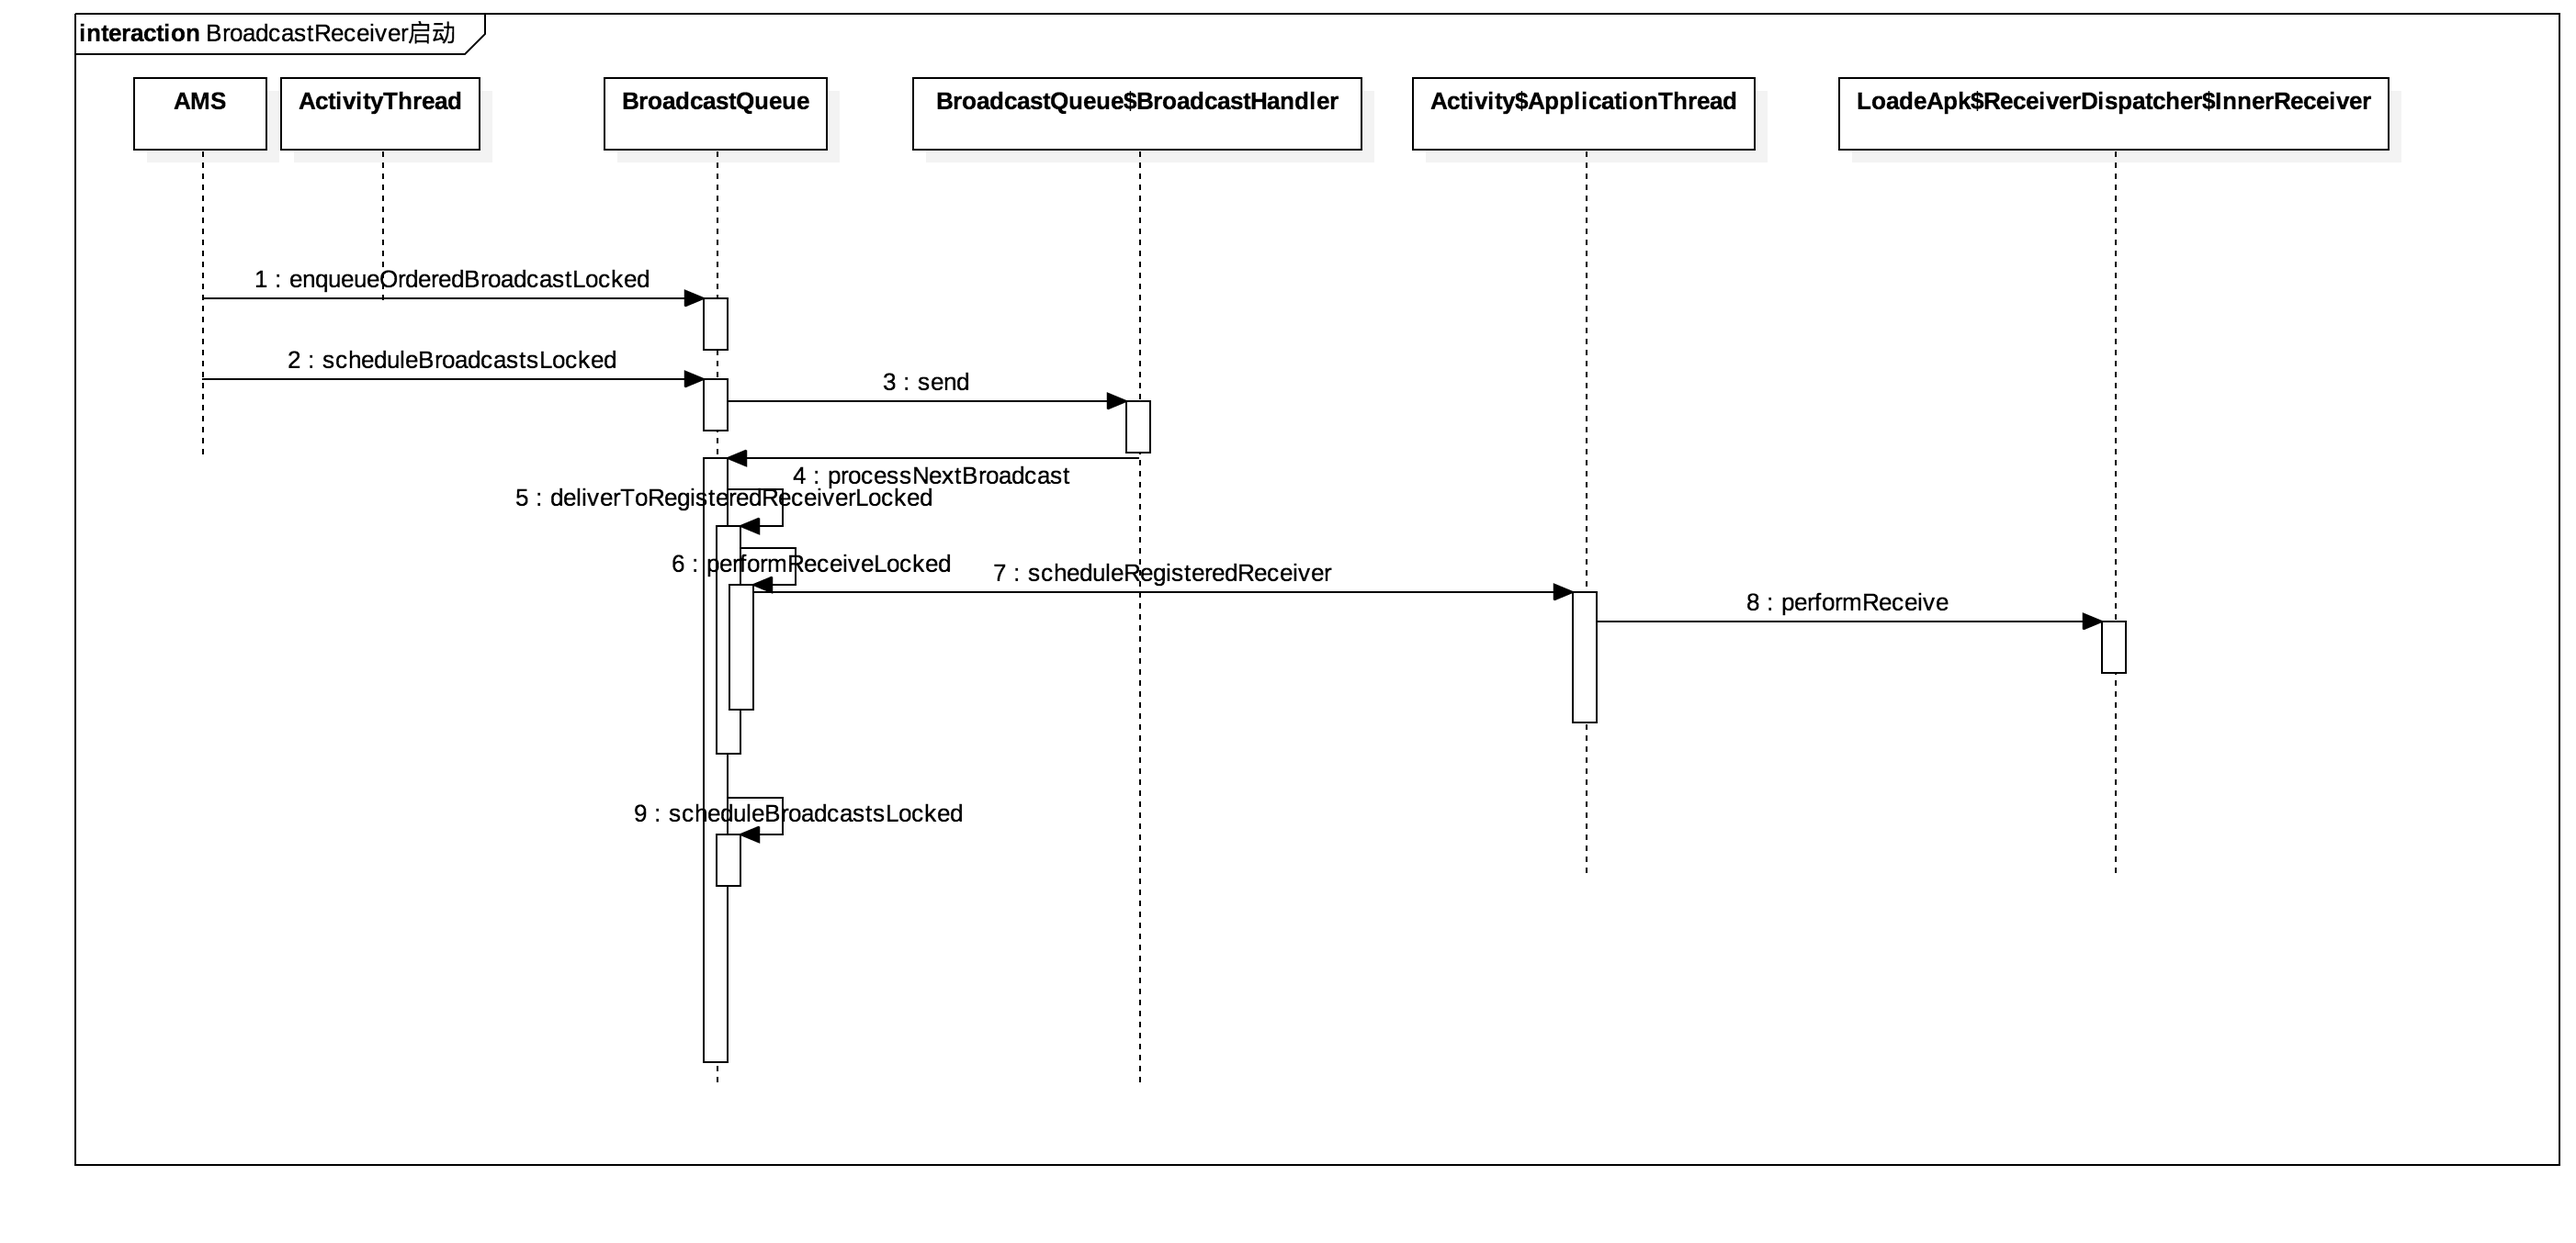
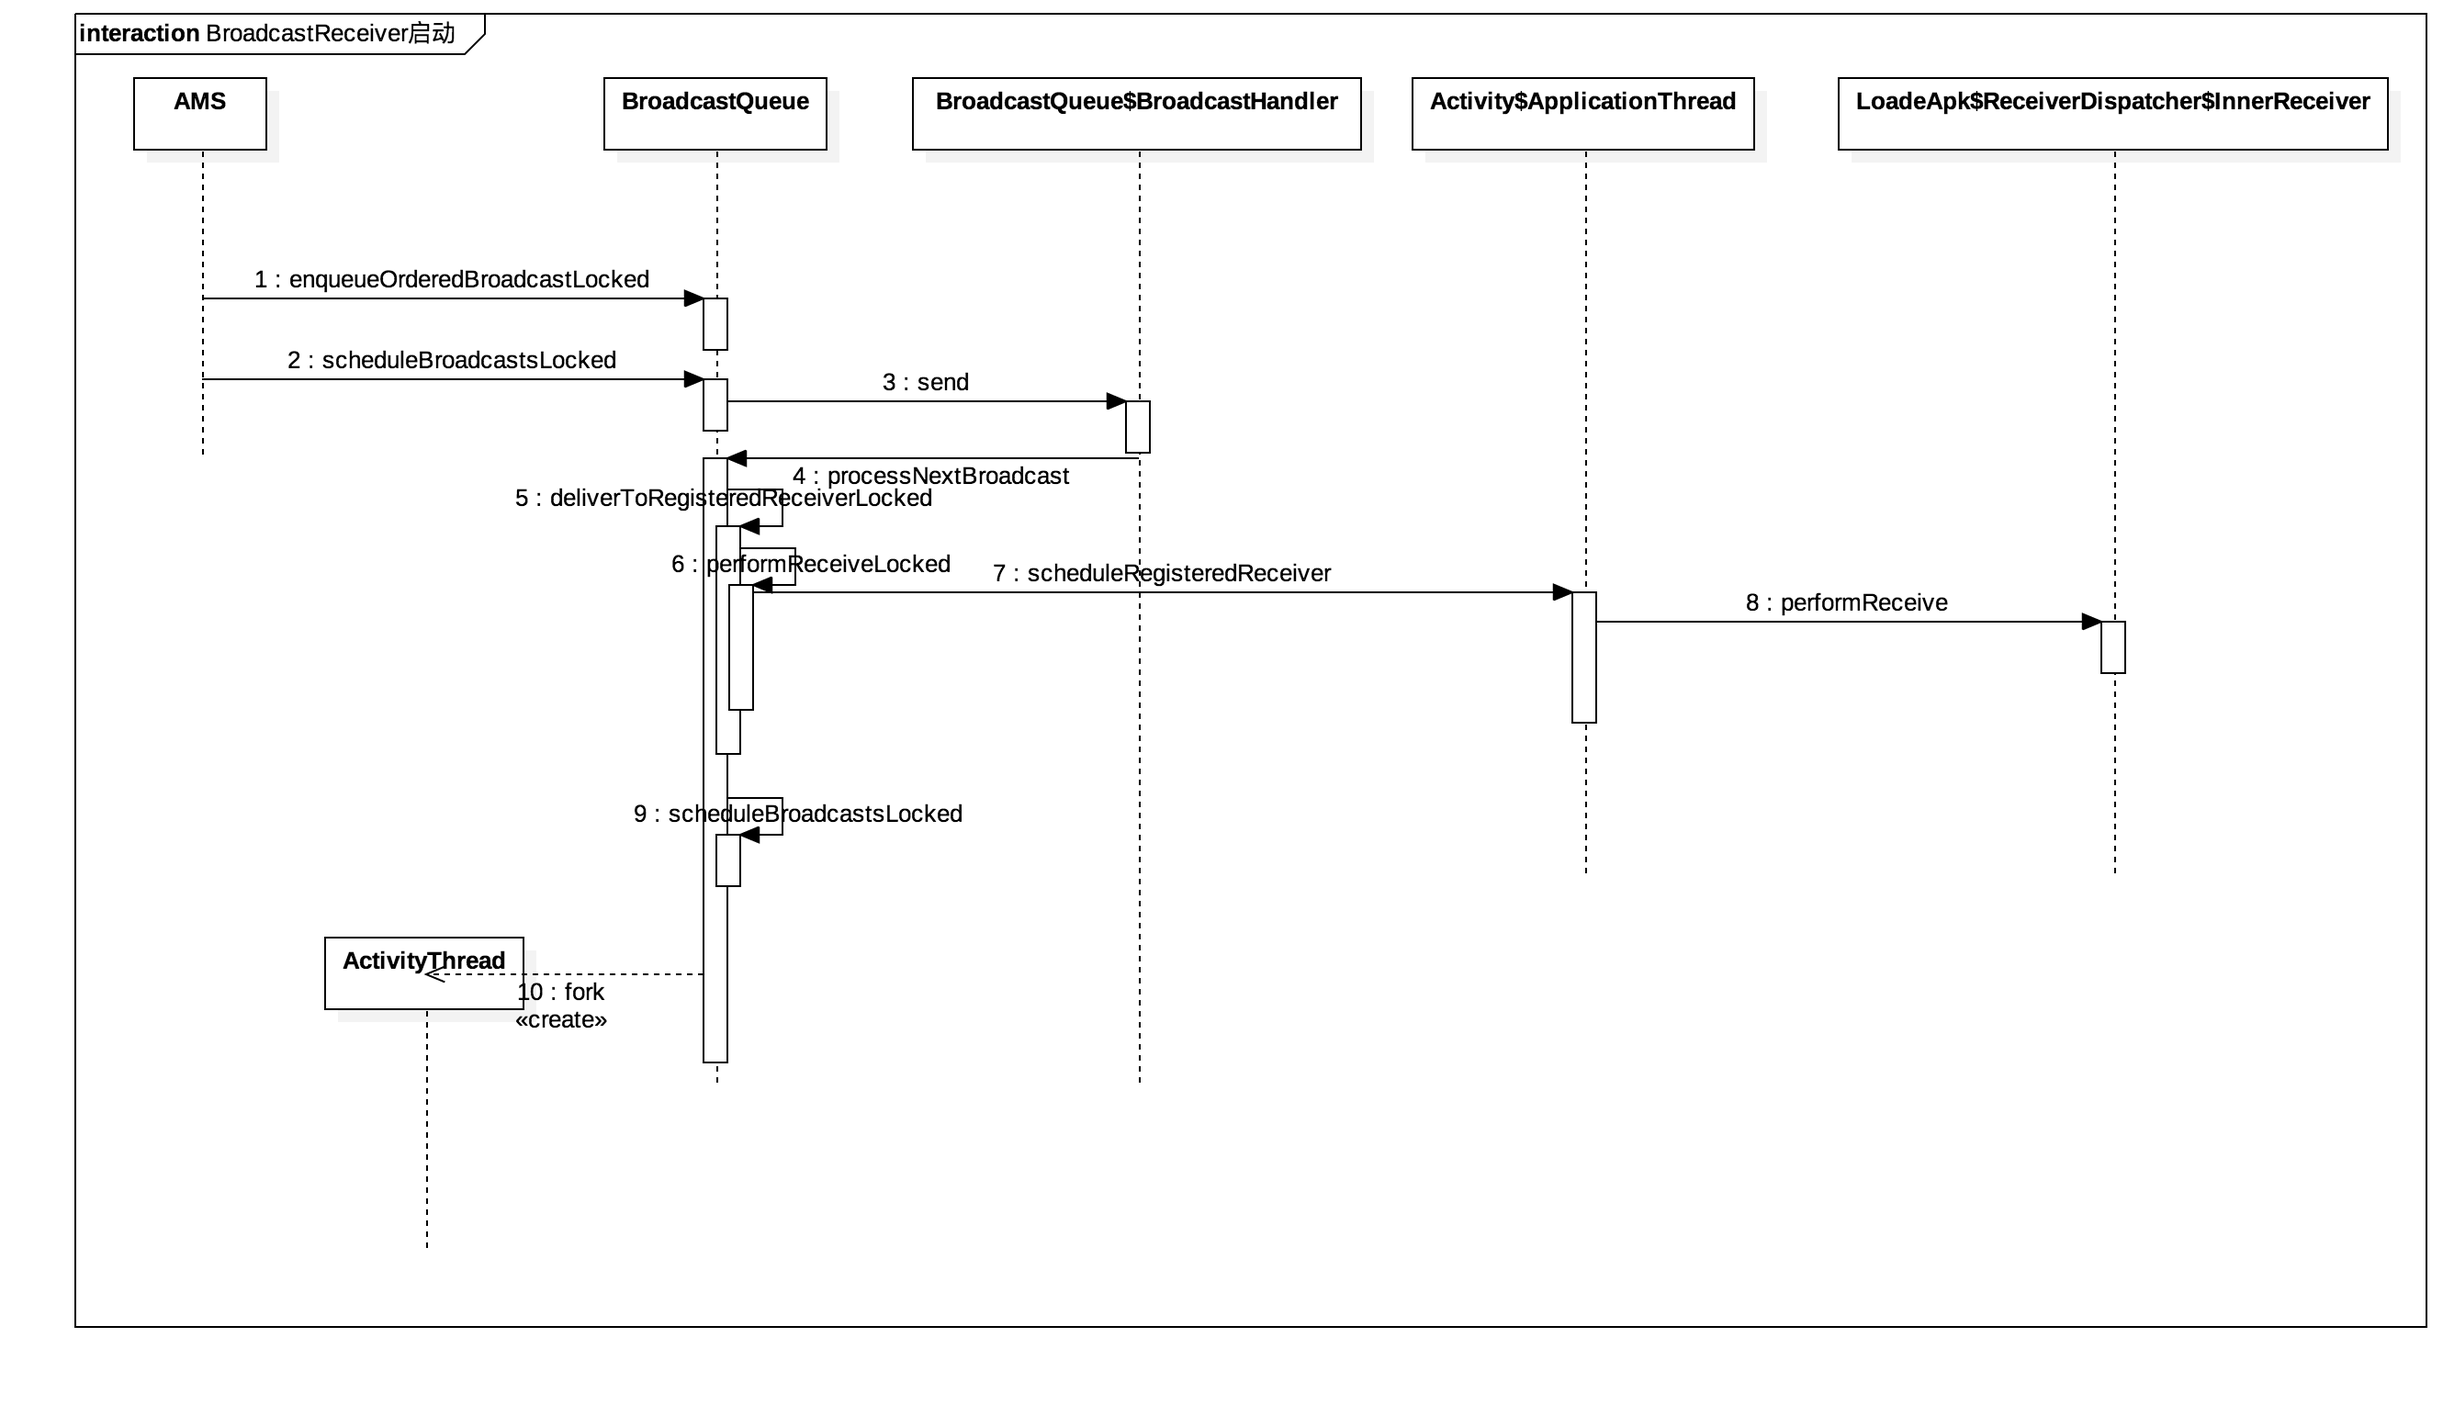
modify “ams component” article

diff --git a/_posts/2018/framework/2018-03-15-framework-service-ams-component.md b/_posts/2018/framework/2018-03-15-framework-service-ams-component.md
@@ -1,7 +1,7 @@
 ---
 layout: post
 title: Framework层的服务 --- AMS管理四大组件
-description: 来一起聊聊AMS管理四大组件
+description: 图解四大组件
 author: 电解质
 date: 2018-03-15
 tag:
@@ -48,20 +48,46 @@ AT.mH(H)|main (UI线程)
 
 ![]({{site.asseturl}}/{{ page.date | date: "%Y-%m-%d" }}/2018-03-15-launch-activity.png)
 
-这是一张整体的启动流程图片，能让我们大致理解了整个流程中几个重要的角色的职能。接下来我们细致讲解一下Application层和Framework层各个角色。
+启动流程：
+1.调用者进程通过AMS这个Framework端Binder将启动另一个Activity的信息传给SystemServer进程。
+2.ActivityStarter处理了这些intent和flag等信息之后，然后交给ActivityStackSupervisior/ActivityStack去处理被调用进程的Activity进栈。如果被调用者进程存在，就会使用ApplicationThread这个Application端Binder通知已存在的被调用者进程启动Activity。如果被调用者进程不存在，就会使用Socket通知Zygote进程fork出一个进程，用来承载即将启动的Activity。
+3.在新的进程里面会创建ActivityThread对象，完成开启主线程loop、ApplicationThread依附在AMS、初始化Context、Application等工作，并且通过Classload加载Activity，创建Activity对象，完成Activity生命周期的调用。
 
-在应用层，Activity的生命周期如下：
+&emsp;&emsp;接下来我们细致讲解一下Application层和Framework层各个角色。
 
-![]({{site.asseturl}}/{{ page.date | date: "%Y-%m-%d" }}/2018-03-15-launch-activity-3.png)
-
-我们可以看到，在performResume方法也就是Activity的resume阶段之后才会将View通过addView呈现在屏幕上。所以唯有handleResumeActivity执行完，View才是可见的。也就是Activity#onResum的方法中，View并不是可见的，而应该是Resumed，才可见。
-
-在Framework层，ActivityStackSupervisor起着管理Stack的责任，而ActivityStack起着担当着管理Activity的责任。
-
-来一张图看看
+先来一张图熟悉一下Framework层的启动流程，认识一下几个重要的角色
 
 ![]({{site.asseturl}}/{{ page.date | date: "%Y-%m-%d" }}/2018-03-15-launch-activity-2.png){:.white-bg-image}
 
+ActivityStarter：决定了intent和flag如何打开Activity和关联task、stack
+
+ActivityStack：管理者Activity
+
+ActivityStack管理Activity生命周期相关的几个方法。
+
+- startActivityLocked()
+- resumeTopActivityLocked()
+- completeResumeLocked()
+- startPausingLocked()
+- completePauseLocked()
+- stopActivityLocked()
+- activityPausedLocked()
+- finishActivityLocked()
+- activityDestroyedLocked()
+
+ActivityStackSupervisor：由于多屏功能的出现，就需要ActivityStackSupervisor这么一个类来管理ActivityStack。
+
+下面就是管理Activity的关系图了。
+
+
+![]({{site.asseturl}}/{{ page.date | date: "%Y-%m-%d" }}/2018-03-15-launch-activity-4.png){:.white-bg-image}
+
+
+&emsp;&emsp;在应用层，Activity的生命周期如下：
+
+![]({{site.asseturl}}/{{ page.date | date: "%Y-%m-%d" }}/2018-03-15-launch-activity-3.png)
+
+我们可以看到，在performResume方法也就是Activity的resume阶段之后才会将View通过addView呈现在屏幕上。所以唯有handleResumeActivity执行完，View才是可见的。也就是Activity#onResum的方法中，View并不是可见的，而应该是Resumed才可见。
 
 ### *Service*{:.header3-font}
 
@@ -71,12 +97,22 @@ Service的启动流程
 
 ![]({{site.asseturl}}/{{ page.date | date: "%Y-%m-%d" }}/2018-03-15-launch-service-start2.png){:.white-bg-image}
 
+启动流程：
+1.调用者进程通过AMS这个Framework端Binder将启动另一个Service的信息传给SystemServer进程。
+2.ActiveService会处理即将启动的Service的信息。如果被调用者进程存在，就会使用ApplicationThread这个Application端Binder通知已存在的被调用者进程启动Service。如果被调用者进程不存在，就会使用Socket通知Zygote进程fork出一个进程，用来承载即将启动的Service。
+3.在新的进程里面会创建ActivityThread对象，完成开启主线程loop、ApplicationThread依附在AMS、初始化Context、Application等工作，并且通过Classload加载Service，创建Service对象，完成Service生命周期的调用。
+
 
 Service的绑定流程
 
 ![]({{site.asseturl}}/{{ page.date | date: "%Y-%m-%d" }}/2018-03-15-launch-service-bind1.png)
 
 ![]({{site.asseturl}}/{{ page.date | date: "%Y-%m-%d" }}/2018-03-15-launch-service-bind2.png){:.white-bg-image}
+
+启动流程：
+1.调用者进程通过AMS这个Framework端Binder将绑定另一个Service的信息传给SystemServer进程。
+2.ActiveService会处理即将启动的Service的信息。如果被调用者进程存在，就会使用ApplicationThread这个Application端Binder通知已存在的被调用者进程启动Service。如果被调用者进程不存在，就会使用Socket通知Zygote进程fork出一个进程，用来承载即将启动的Service。
+3.在新的进程里面会创建ActivityThread对象，完成开启主线程loop、ApplicationThread依附在AMS、初始化Context、Application等工作，并且通过Classload加载Service，创建Service对象，紧接着通过AMS将正在绑定的Service对客户端提供的Binder接口传给Application端的InnerConnection这个Binder，InnerConnection会让ServiceDispatcher这个派发人去分发Binder，从而实现了绑定的工作。
 
 ### *BroadcastReceiver*{:.header3-font}
 
@@ -89,8 +125,20 @@ Service的绑定流程
 ![]({{site.asseturl}}/{{ page.date | date: "%Y-%m-%d" }}/2018-03-15-launch-broadcastreceiver-2.png){:.white-bg-image}
 
 
+启动流程：
+1.调用者进程通过AMS这个Framework端Binder将广播的信息传给SystemServer进程。
+2.BroadcastQueue通过内部类BroadcastHandler向已经注册广播的应用发送消息，要么通过for循环发送普通广播，要么通过方法递归发送有序广播。如果被调用者进程存在，就会使用ApplicationThread这个Application端Binder通知已存在的被调用者进程接受广播。如果被调用者进程不存在，就会使用Socket通知Zygote进程fork出一个进程，用来承载即将接受广播的Receiver。
+3.在新的进程里面会创建ActivityThread对象，完成开启主线程loop、ApplicationThread依附在AMS、初始化Context、Application等工作，并且通过Classload加载BroadcastReceiver，创建BroadcastReceiver对象，完成BroadcastReceiver生命周期的调用。
+
+
 ### *ContentProvider*{:.header3-font}
 ![]({{site.asseturl}}/{{ page.date | date: "%Y-%m-%d" }}/2018-03-15-launch-contentprovider.png)
+
+
+<!-- 启动流程：
+1.调用者进程通过AMS这个Framework端Binder将广播的信息传给SystemServer进程。
+2.BroadcastQueue通过内部类BroadcastHandler向已经注册广播的应用发送消息，要么通过for循环发送普通广播，要么通过方法递归发送有序广播。如果被调用者进程存在，就会使用ApplicationThread这个Application端Binder通知已存在的被调用者进程接受广播。如果被调用者进程不存在，就会使用Socket通知Zygote进程fork出一个进程，用来承载即将接受广播的Receiver。
+3.在新的进程里面会创建ActivityThread对象，完成开启主线程loop、ApplicationThread依附在AMS、初始化Context、Application等工作，并且通过Classload加载BroadcastReceiver，创建BroadcastReceiver对象，完成BroadcastReceiver生命周期的调用。 -->
 
 <!-- ## *4.Reference*{:.header2-font} -->
 
